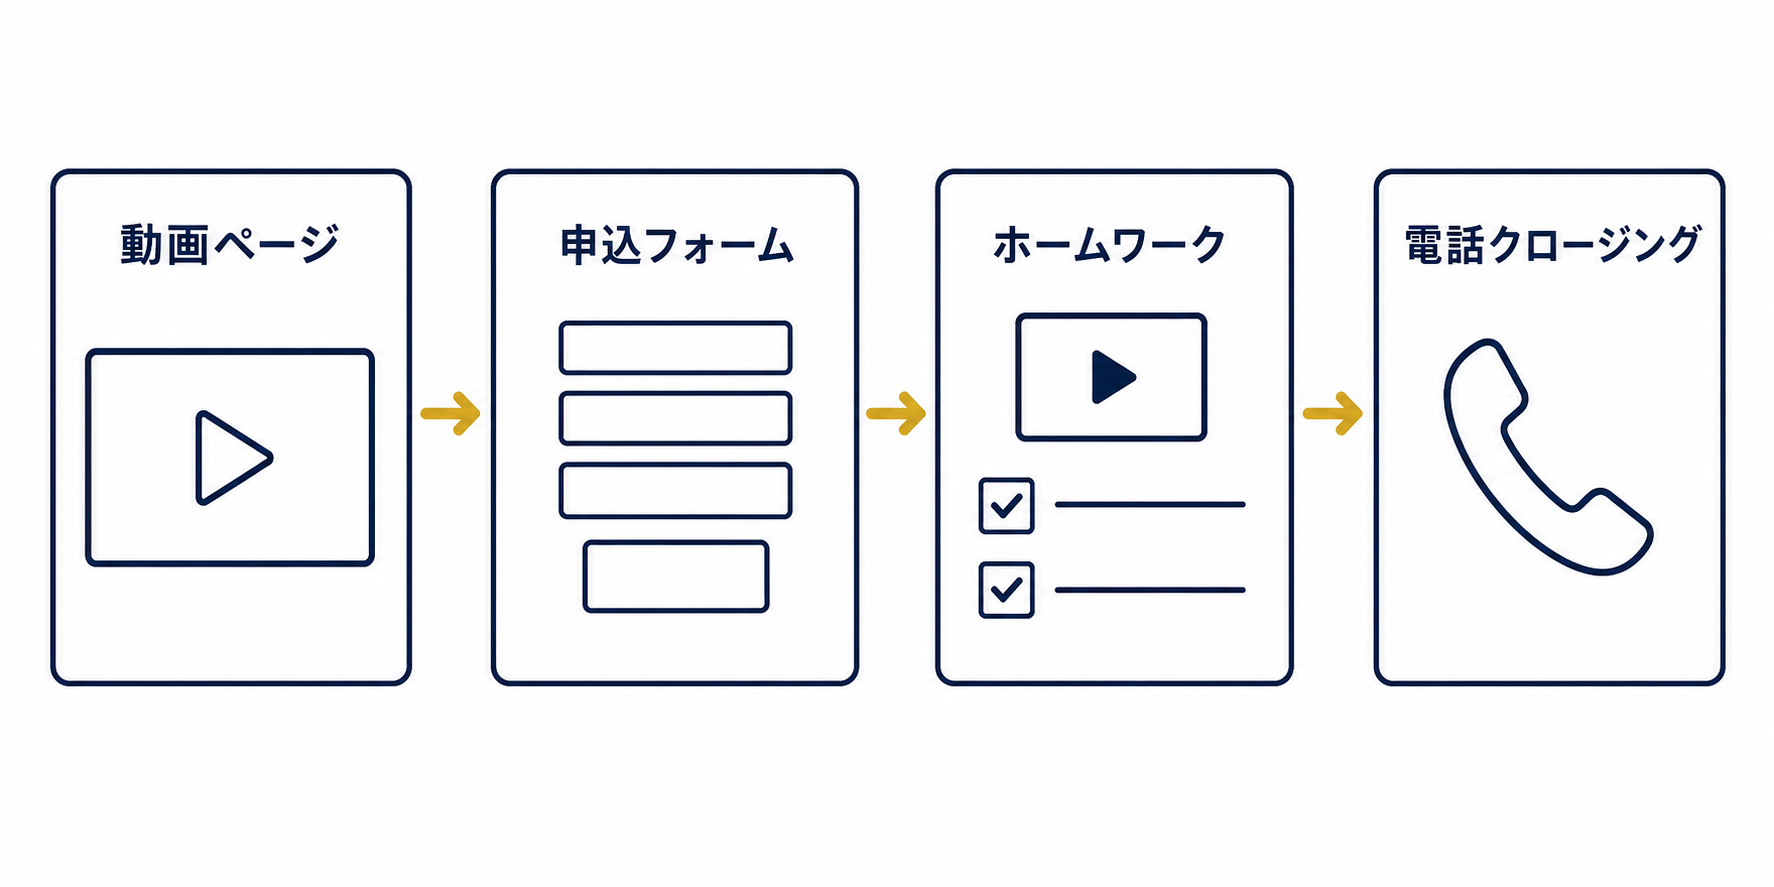
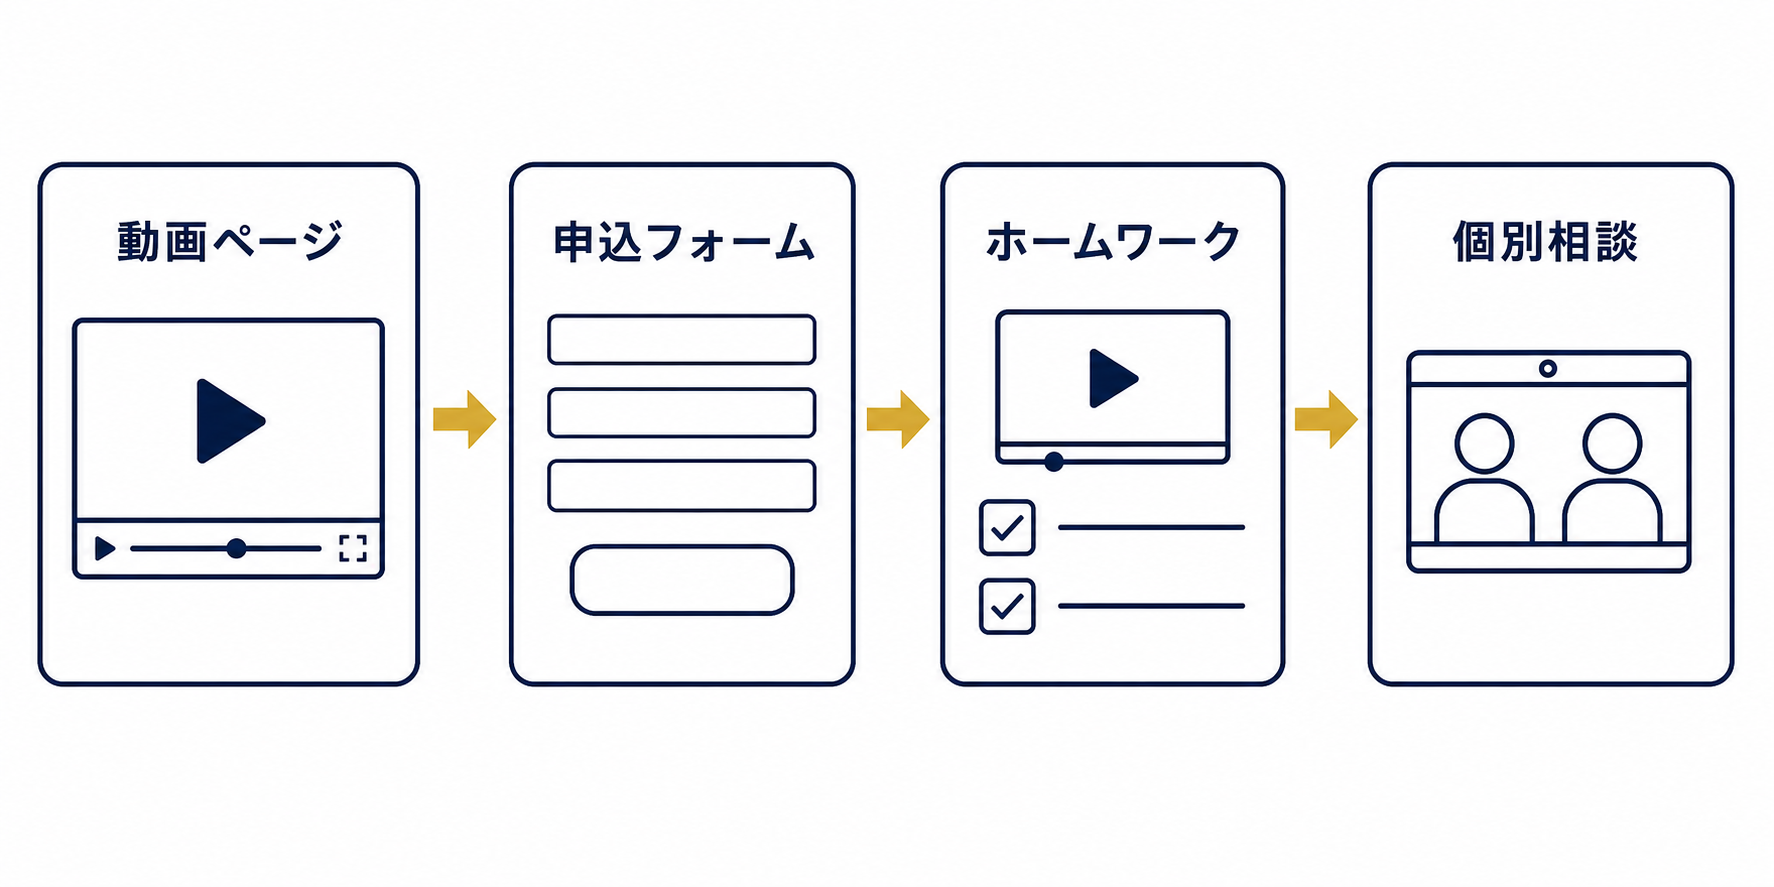
申込式ハイチケットファネルを日本の実情と平易な表現に改稿
- 「個別電話クロージング」を「個別相談(オンライン/電話)」に変更し、
  Zoom等のオンラインミーティングが日本では一般的である旨を追記
- セッター/クローザー/クロージングを平易な日本語に言い換え
  (原語は括弧で1回だけ併記)
- 概要フロー図と個別相談の概念図をオンライン相談仕様に再生成

Changed region(s): [[0.0, 0.1826, 0.9921, 0.7914]]

diff --git a/funnel-designs/types-of-funnels/application-funnel.md b/funnel-designs/types-of-funnels/application-funnel.md
@@ -1,25 +1,27 @@
 # 申込式ハイチケットファネル（Application Funnel）
 
 {% hint style="info" %}
-申込式ハイチケットファネル（Application Funnel）は、マーケター Russell Brunson(ラッセル・ブランソン)が著書『DotCom Secrets』などでコアファネルのひとつとして位置づける、**高単価商品**を売るためのファネルです。ウェビナーやVSLのような「大勢に一度に売る」形式では成約しきれない価格帯の商品を、「申込 → ホームワーク → 個別電話クロージング」という動線で、1人ずつ確実に売り切るために設計されています。
+申込式ハイチケットファネル（Application Funnel）は、マーケター Russell Brunson(ラッセル・ブランソン)が著書『DotCom Secrets』などでコアファネルのひとつとして位置づける、**高単価商品**を売るためのファネルです。ウェビナーやVSLのような「大勢に一度に売る」形式では成約しきれない価格帯の商品を、「申込 → ホームワーク → 1対1の個別相談」という動線で、1人ずつ確実に売り切るために設計されています。
 {% endhint %}
 
 <figure><img src="../../.gitbook/assets/application-overview.png" alt=""><figcaption></figcaption></figure>
 
 ### 申込式ハイチケットファネルとは？
 
-申込式ハイチケットファネルは、見込み客にまず「**申込者**」になってもらい、そのうえで**電話で個別にクロージング**するファネルです。
+申込式ハイチケットファネルは、見込み客にまず「**申込者**」になってもらい、そのうえで**1対1の個別相談で直接ご案内して成約につなげる**ファネルです。
 
-背景にあるのは、価格帯による売り方の使い分けです。数万円〜数十万円クラスの商品なら、ウェビナーやVSLのような「一斉に提案する」形式でも成約します。しかしそれを大きく超える価格帯になると、多くの人は動画を見ただけでは決断できず、**より多くの接点——特に人との対話——が必要**になります。そこで、電話での個別対応を前提にファネルを組むのがこの型です。
+背景にあるのは、価格帯による売り方の使い分けです。数万円〜数十万円クラスの商品なら、ウェビナーやVSLのような「一斉に提案する」形式でも成約します。しかしそれを大きく超える価格帯になると、多くの人は動画を見ただけでは決断できず、**より多くの接点——特に人との対話——が必要**になります。そこで、1対1の対話を前提にファネルを組むのがこの型です。
 
-このファネルの本質は「**見込み客をできるだけ早くオフライン(対話)に連れていき、質の高い商談を作る**」ことにあります。申込フォームとホームワークを通過した見込み客は、電話がつながる前にすでに教育され、購入の心構えができた状態になっています。
+この型が生まれたアメリカでは電話セールスが主流だったため、原典では「セールスコール(電話)」として説明されますが、**今の日本ではZoomなどのオンラインミーティングで行うのが一般的**です。「無料個別相談」「戦略セッション」といった名称で案内されるものが、まさにこのステップにあたります。大事なのは電話かオンラインかという手段ではなく、**1対1で対話すること**そのものです。
+
+このファネルの本質は「**見込み客をできるだけ早く1対1の対話に連れていき、質の高い商談を作る**」ことにあります。申込フォームとホームワークを通過した見込み客は、相談が始まる前にすでに教育され、購入の心構えができた状態になっています。
 
 典型的な流れは次の4段階です。
 
 1. **動画ページ:** ファネルの入口で、あなた自身や顧客の**成功事例(ケーススタディ)動画**を視聴してもらい、メールアドレスを取得します。動画の下に「申込み」ボタンを配置します。
 2. **申込フォーム:** 「申込み」ボタンから遷移する質問形式のフォームです。質問への回答で、成約につながりやすい見込み客を絞り込みます。
 3. **ホームワーク:** 申込後に案内する60〜90分のウェビナー/動画トレーニングです。商品理解を深め、購入への懸念を先回りして解消します。
-4. **個別電話クロージング:** ホームワークを終えた申込者と電話で話し、個別にクロージングします。
+4. **個別相談（オンライン/電話）:** ホームワークを終えた申込者と1対1で話し、最後のご案内をして成約につなげます（マーケティング用語では「クロージング」と呼ばれるステップです）。
 
 ### ファネル概要
 
@@ -28,7 +30,7 @@
 * 動画ページ（ケーススタディ/成功事例）
 * 申込フォーム
 * ホームワーク
-* 個別電話クロージング
+* 個別相談（オンライン/電話）
 
 ### 動画ページ
 
@@ -62,12 +64,12 @@
 <figure><img src="../../.gitbook/assets/application-form.png" alt=""><figcaption></figcaption></figure>
 
 {% hint style="info" %}
-**ヒント:** 申込フォームには「合わない人への自動対応」も設計に含めましょう。回答内容から成約確率が低いと判断できる申込者には、電話ではなく別の無料リソースを自動送信して案内する——相手の時間も自分の時間も無駄にしないための、定番の設計です。
+**ヒント:** 申込フォームには「合わない人への自動対応」も設計に含めましょう。回答内容から成約確率が低いと判断できる申込者には、個別相談ではなく別の無料リソースを自動送信して案内する——相手の時間も自分の時間も無駄にしないための、定番の設計です。
 {% endhint %}
 
 ### ホームワーク
 
-申込フォーム送信後に案内する、**60〜90分のウェビナー/動画トレーニング**コンテンツです。電話の前に「宿題」としてじっくり視聴してもらうことで、見込み客の理解と熱量を電話に最適な状態まで引き上げます。
+申込フォーム送信後に案内する、**60〜90分のウェビナー/動画トレーニング**コンテンツです。個別相談の前に「宿題」としてじっくり視聴してもらうことで、見込み客の理解と熱量を相談当日に最適な状態まで引き上げます。
 
 ホームワークの3つの役割:
 
@@ -75,25 +77,25 @@
 2. **懸念の解消** — 本人の心の中の懸念(内的)と、周囲からの反対(外的)の両方を先回りして払拭する
 3. **欲求の増幅** — 商品がない未来の痛みと、商品がある未来の変化を具体的に描く
 
-ホームワークをきちんと完了した申込者は、電話がつながった時点で**すでに買う準備ができている**——これがこのステップを挟む最大の理由です。
+ホームワークをきちんと完了した申込者は、個別相談が始まった時点で**すでに決断する準備ができている**——これがこのステップを挟む最大の理由です。
 
 <figure><img src="../../.gitbook/assets/application-homework.png" alt=""><figcaption></figcaption></figure>
 
-### 個別電話クロージング
+### 個別相談（オンライン/電話）
 
-ホームワーク視聴後、電話で個別にクロージングする最終ステップです。チーム体制に応じて、2つの進め方が使い分けられます。
+ホームワーク視聴後、申込者と1対1で話して成約につなげる最終ステップです。ZoomなどのオンラインミーティングでもOKですし、電話でも構いません。チーム体制に応じて、2つの進め方が使い分けられます。
 
-**1. 1人で売る場合（4つの質問で導くクロージング）:**
+**1. 1人で対応する場合（4つの質問で導く進め方）:**
 
-* セールス担当が1人の体制向け
-* 4つの質問で申込者のゴールと障害を明確にし、その達成手段として商品を位置づける
-* 中価格帯のハイチケット商品のクロージングに向く
+* 相談から成約までを1人で担当する体制向け
+* 4つの質問で申込者のゴールと障害を整理し、商品を「その解決手段」としてご案内する
+* 売り込むというより、相手に自分の言葉で目標と課題を語ってもらい、自然に決断へ導く進め方です
 
-**2. 2人で売る場合（セッター+クローザーの分業）:**
+**2. 2人で分担する場合（事前ヒアリング担当+相談担当の分業）:**
 
-* アポイント設定と選別を担う「セッター」と、クロージング専任の「クローザー」の分業体制
-* セッターが適格な申込者を選別してから、クローザーが商談に入る
-* より高単価の商品で威力を発揮する
+* 「日程調整と事前ヒアリングを行う担当」と「個別相談で成約までを担う担当」で分業する体制（英語ではそれぞれ「セッター」「クローザー」と呼ばれます）
+* 事前ヒアリング担当が、目標や状況を聞き取って「本当にお役に立てる相手か」を見極めてから、相談担当が本題の商談に入る
+* より高単価の商品や、申込数が多い場合に威力を発揮します
 
 <figure><img src="../../.gitbook/assets/application-call.png" alt=""><figcaption></figcaption></figure>
 
@@ -109,8 +111,8 @@
 
 * **高単価商品を販売したいとき** — グループウェビナーやVSLでは成約しきれない価格帯
 * **コーチング、マスターマインド、コンサルティング、代行サービス**など、個別サポートが中心の商品
-* **あなた(またはチーム)の時間を高単価で売りたいとき** — 1対1のクロージングが成約のコアになる商品
+* **1対1の対話が成約の決め手になる商品** — あなた(またはチーム)の時間を高単価で売りたいとき
 
-一方で、低〜中単価の商品であれば、電話を挟まないウェビナーファネルやVSLファネルの方が効率的です。商品の価格帯と、1件あたりにかけられる営業時間から逆算して選びましょう。
+一方で、低〜中単価の商品であれば、個別相談を挟まないウェビナーファネルやVSLファネルの方が効率的です。商品の価格帯と、1件あたりにかけられる対応時間から逆算して選びましょう。
 
-OpusBoosterの申込式ハイチケットファネルテンプレートは、この「動画ページ + 申込フォーム + ホームワーク + 個別電話クロージング」の構造をそのまま実装するためのものです。
+OpusBoosterの申込式ハイチケットファネルテンプレートは、この「動画ページ + 申込フォーム + ホームワーク + 個別相談」の構造をそのまま実装するためのものです。

diff --git a/funnel-designs/types-of-funnels/README.md b/funnel-designs/types-of-funnels/README.md
@@ -17,7 +17,7 @@ OpusBoosterには、目的に合わせてすぐに使える複数のファネル
 * **トリップワイヤーファネル** – 無料+送料や低価格商品を入口に「買い客」への転換をつくるファネル
 * **商品ローンチファネル** – 4本の動画シリーズを数日間かけて配信し、新商品をローンチするファネル
 * **VSL（ビデオセールスレター）ファネル** – 1本のセールス動画と注文フォームで完結する販売ファネル
-* **申込式ハイチケットファネル** – 申込フォームと個別電話クロージングで高単価商品を売るファネル
+* **申込式ハイチケットファネル** – 申込フォームと1対1の個別相談で高単価商品を売るファネル
 
 各ファネルの詳しい構成と使い方は、それぞれのページをご覧ください。
 